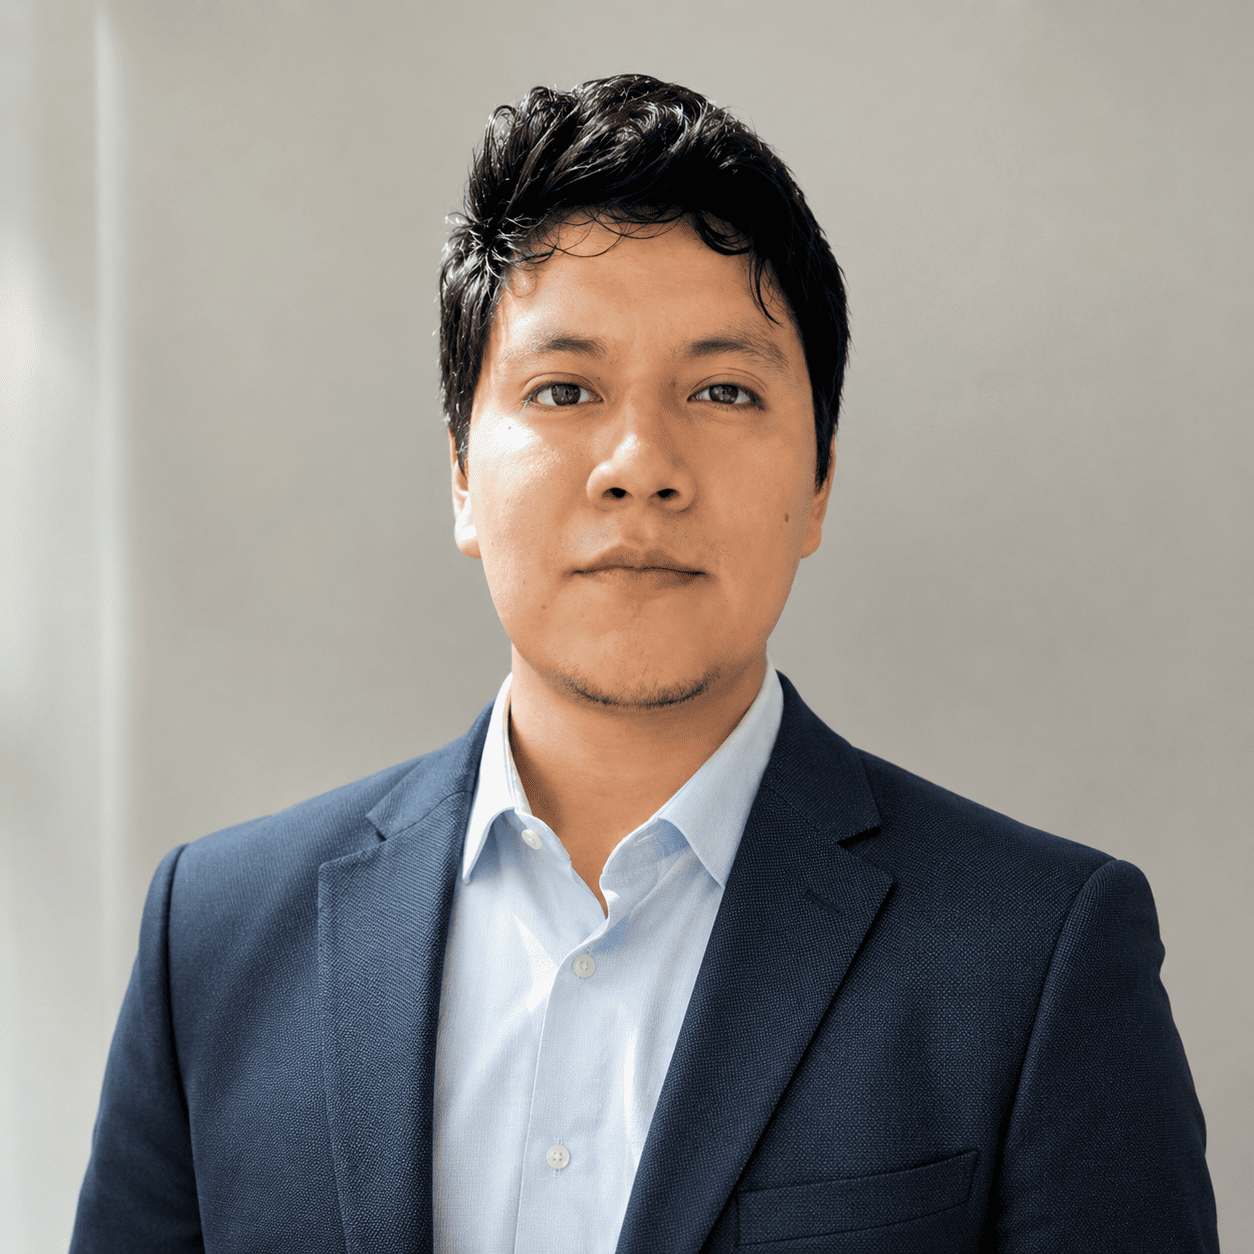
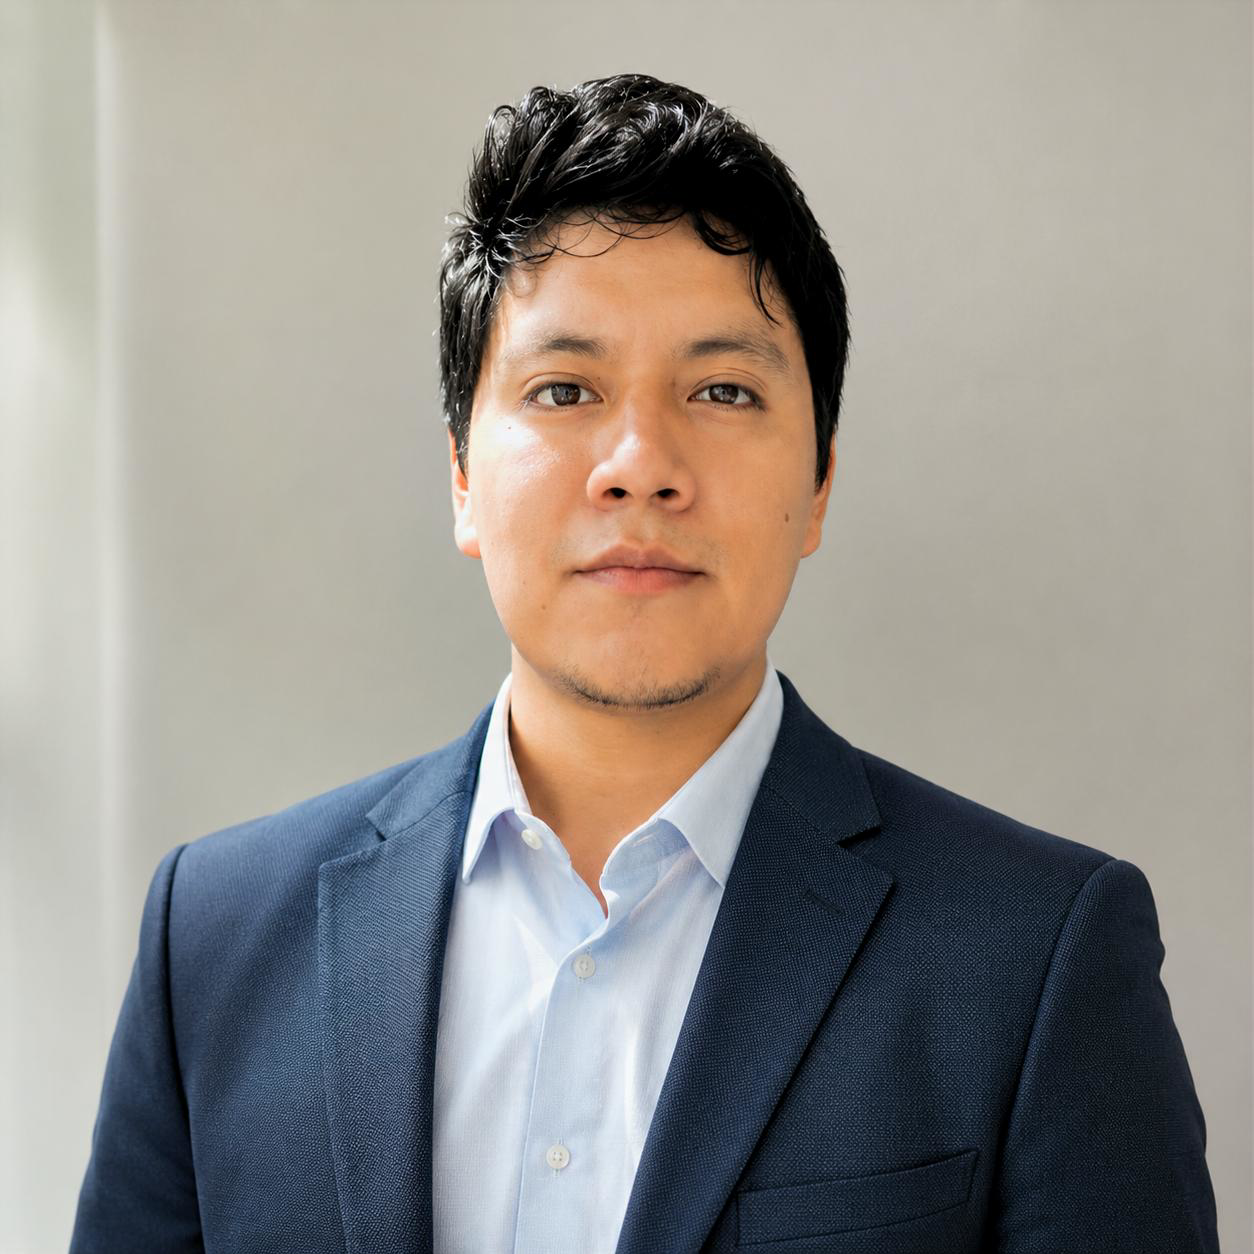
nuevas correcciones

diff --git a/src/pages/projects/Data.jsx b/src/pages/projects/Data.jsx
@@ -51,7 +51,7 @@ export const projectsData = [
     date: "2024-10-11",
     title: 'Sistema de Gestión de Incidencias Informáticas',
     technologies: 'PHP 7.4.8 - JavaScript - Tailwind CSS - SQL Server 2008 R2',
-    category: 'Web',
+    category: 'Web App',
     github: 'https://github.com/GAMM95/incidenciasMDE',
     demo: 'https://youtu.be/wqomEDcPOXU',
     description: 'Sistema web en línea de gestión de incidencias para la Municipalidad Distrital de La Esperanza. Este sistema permite a los usuarios registrar, consultar, mostrar reportes de las incidencias ocurridas en cada área de la entidad descentralizando el proceso de gestión de incidencias Para ingresar al sistema utilice las credenciales username: admin y contraseña: admin123'
@@ -87,7 +87,7 @@ export const projectsData = [
     date: "2023-10-13",
     title: 'Sistema de Consulta de Transportes para Vehículos Menores Motorizados',
     technologies: 'PHP 8.2.4- HTML - JavaScript - Tailwind - SQL Server',
-    category: 'Web',
+    category: 'Web App',
     github: 'https://github.com/GAMM95/consulta-transportes',
     // demo: 'http://200.233.44.136/consulta_transporte/',
     description: 'Sistema web en línea de consultas de transportes para la Sub Gerencia de Transportes, Tránsito y Seguridad Vial de la Municipalidad Distrital de La Esperanza. Este sistema permite a los inspectores de tránsito hacer consultas de las tarjetas de circulación vigentes, papeletas impuestas sin pagar y paraderos establecidos correspondientes al vehiculo menor motorizado ingresando la placa. Para ingresar al sistema utilice las credenciales username: gamm y contraseña: 123456'
@@ -152,8 +152,8 @@ export const projectsData = [
     ],
     date: "2026-01-25",
     title: 'Viña Cascas',
-    technologies: 'Angular 21 - TypeScript - Bootstrap',
-    category: 'Web',
+    technologies: 'Java 17 - Spring Boot - MySql - Angular 21 - TypeScript - Bootstrap',
+    category: 'Web App',
     github: 'https://github.com/GAMM95/vinos_front.git',
     // demo: 'https://vinos-app.herokuapp.com/',
     description: 'Aplicación web para la gestión de una tienda de vinos. Permite la administración de productos, categorías, precios, pedidos y ventas. Esta aplicación se desarrolló utilizando Angular 21 y Bootstrap.',
@@ -177,10 +177,10 @@ export const projectsNav = [
     name: 'Todos',
   },
   {
-    name: 'Web',
+    name: 'APIs',
   },
   {
-    name: 'APIs',
+    name: 'Web App',
   },
   {
     name: 'Otros',

diff --git a/src/pages/qualification/QualificationTabs.jsx b/src/pages/qualification/QualificationTabs.jsx
@@ -1,19 +1,65 @@
+// import React from "react";
+// import { BsJournalBookmarkFill } from "react-icons/bs";
+// import { IoBriefcaseOutline } from "react-icons/io5";
+
+// const QualificationTabs = ({ toggleState, setToggleState }) => (
+//   <div className="flex justify-center mb-12 gap-6">
+//     <button
+//       onClick={() => setToggleState("education")}
+//       className={`btn-tab ${toggleState === "education" ? "active" : ""}`}
+//     >
+//       🎓 Educación
+//     </button>
+
+//     <button
+//       onClick={() => setToggleState("experience")}
+//       className={`btn-tab ${toggleState === "experience" ? "active" : ""}`}
+//     >
+//       💼 Experiencia
+//     </button>
+//   </div>
+// );
+
+// export default QualificationTabs;
+
 import React from "react";
+import { BsJournalBookmarkFill } from "react-icons/bs";
+import { IoBriefcaseOutline } from "react-icons/io5";
 
 const QualificationTabs = ({ toggleState, setToggleState }) => (
   <div className="flex justify-center mb-12 gap-6">
     <button
       onClick={() => setToggleState("education")}
-      className={`btn-tab ${toggleState === "education" ? "active" : ""}`}
+      className={`
+        flex items-center gap-2 px-6 py-2 rounded-full
+        text-sm sm:text-base font-medium
+        transition-all duration-300
+        ${
+          toggleState === "education"
+            ? "bg-[var(--button-color)] text-[var(--container-color)] shadow-lg"
+            : "bg-[var(--card-color)] text-[var(--text-color)] hover:bg-[var(--hover-color)]"
+        }
+      `}
     >
-      🎓 Educación
+      <BsJournalBookmarkFill className="text-lg" />
+      Educación
     </button>
 
     <button
       onClick={() => setToggleState("experience")}
-      className={`btn-tab ${toggleState === "experience" ? "active" : ""}`}
+      className={`
+        flex items-center gap-2 px-6 py-2 rounded-full
+        text-sm sm:text-base font-medium
+        transition-all duration-300
+        ${
+          toggleState === "experience"
+            ? "bg-[var(--button-color)] text-[var(--container-color)] shadow-lg"
+            : "bg-[var(--card-color)] text-[var(--text-color)] hover:bg-[var(--hover-color)]"
+        }
+      `}
     >
-      💼 Experiencia
+      <IoBriefcaseOutline className="text-lg" />
+      Experiencia
     </button>
   </div>
 );

diff --git a/src/pages/skills/Skills.jsx b/src/pages/skills/Skills.jsx
@@ -5,7 +5,7 @@ import { skillsTabs, skillsContent } from "./skillsData";
 const Skills = () => {
   const [activeTab, setActiveTab] = useState(skillsTabs[0].id);
 
-  const currentTab    = skillsTabs.find((t) => t.id === activeTab);
+  const currentTab = skillsTabs.find((t) => t.id === activeTab);
   const currentSkills = skillsContent[activeTab] ?? [];
 
   // Re-trigger AOS cada vez que cambia el tab
@@ -45,21 +45,28 @@ const Skills = () => {
       >
         {skillsTabs.map((tab) => {
           const Icon = tab.icon;
+
           return (
             <button
               key={tab.id}
               onClick={() => handleTab(tab.id)}
-              className={`btn-tab inline-flex items-center gap-2 ${
-                activeTab === tab.id ? "active" : ""
-              }`}
+              className={`
+          inline-flex items-center gap-2
+          px-5 py-2 rounded-full
+          text-sm sm:text-base font-medium
+          transition-all duration-300
+          ${activeTab === tab.id
+                  ? "bg-[var(--button-color)] text-[var(--container-color)] shadow-lg"
+                  : "bg-[var(--card-color)] text-[var(--text-color)] hover:bg-[var(--hover-color)]"
+                }
+        `}
             >
-              <Icon size={14} aria-hidden="true" />
+              <Icon size={16} />
               {tab.title}
             </button>
           );
         })}
       </div>
-
       {/* Category header */}
       <div className="text-center mb-8">
         <p

diff --git a/src/components/footer/Footer.jsx b/src/components/footer/Footer.jsx
@@ -1,10 +1,10 @@
 const Footer = () => {
   const navLinks = [
-    { href: "#inicio",      label: "Inicio"      },
+    // { href: "#inicio",      label: "Inicio"      },
     { href: "#habilidades", label: "Habilidades" },
     { href: "#proyectos",   label: "Proyectos"   },
-    { href: "#formacion",   label: "Formación"   },
-    { href: "#contacto",    label: "Contacto"    },
+    // { href: "#formacion",   label: "Formación"   },
+    // { href: "#contacto",    label: "Contacto"    },
   ];
 
   return (
@@ -25,7 +25,7 @@ const Footer = () => {
               className="text-lg font-semibold tracking-wide"
               style={{ color: "var(--title-color)" }}
             >
-              GAMM
+              PORTAFOLIO
             </h2>
             <span className="text-xs" style={{ color: "var(--disabled-color)" }}>
               Jhonatan Mantilla · Desarrollador Backend

diff --git a/src/pages/projects/Work.jsx b/src/pages/projects/Work.jsx
@@ -39,13 +39,22 @@ const Work = () => {
         className="flex flex-wrap justify-center gap-3 mb-8"
       >
         {projectsNav.map((navItem, index) => (
-          <span
+          <button
             key={index}
             onClick={(e) => handleClick(e, index)}
-            className={`btn-tab cursor-pointer ${active === index ? "active" : ""}`}
+            className={`
+        px-5 py-2 rounded-full
+        text-sm sm:text-base font-medium
+        transition-all duration-300
+        cursor-pointer
+        ${active === index
+                ? "bg-[var(--button-color)] text-[var(--container-color)] shadow-lg"
+                : "bg-[var(--card-color)] text-[var(--text-color)] hover:bg-[var(--hover-color)]"
+              }
+      `}
           >
             {navItem.name}
-          </span>
+          </button>
         ))}
       </div>
 

diff --git a/src/pages/qualification/TimeLineData.jsx b/src/pages/qualification/TimeLineData.jsx
@@ -85,12 +85,12 @@ export const timelineData = [
   {
     id: 9,
     type: "experience",
-    title: "Viña Cascas",
-    subtitle: "Desarrollo freelance",
+    title: "Desarrollador freelance",
+    subtitle: "Proyecto Web App Viña Cascas",
     place: "Trujillo",
-    date: "Dic 2025 - Actualidad",
+    date: "Dic 2025 - Abri 2026",
     startDate: "2025-12-12",
-    endDate: null,
+    endDate: "2026-04-30",
   },
   {
     id: 10,
@@ -102,4 +102,14 @@ export const timelineData = [
     startDate: "2025-11-01",
     endDate: "2026-01-25",
   },
+  {
+    id: 11,
+    type: "experience",
+    title: "Desarrollador freelance",
+    subtitle: "Proyecto Web App Veterinaria",
+    place: "Trujillo",
+    date: "May 2026 - Actualidad",
+    startDate: "2026-05-15",
+    endDate: null,
+  }
 ];

diff --git a/src/components/header/Header.jsx b/src/components/header/Header.jsx
@@ -1,5 +1,6 @@
 import React, { useState, useEffect } from "react";
 import logo from "../../assets/gamm-logo.ico";
+import logoDark from "../../assets/gamm-logo2.ico";
 
 /**
  * Props:
@@ -63,7 +64,11 @@ const Header = ({ isDark, toggleTheme }) => {
 
         {/* Logo */}
         <a href="#inicio" className="flex items-center shrink-0">
-          <img src={logo} alt="GAMM logo" className="w-14 md:w-12 max-md:w-10" />
+          <img
+           src={isDark ? logoDark : logo} 
+           alt="GAMM logo" 
+           className="w-14 md:w-12 max-md:w-10" 
+           />
         </a>
 
         {/* Desktop: nav + theme toggle */}
